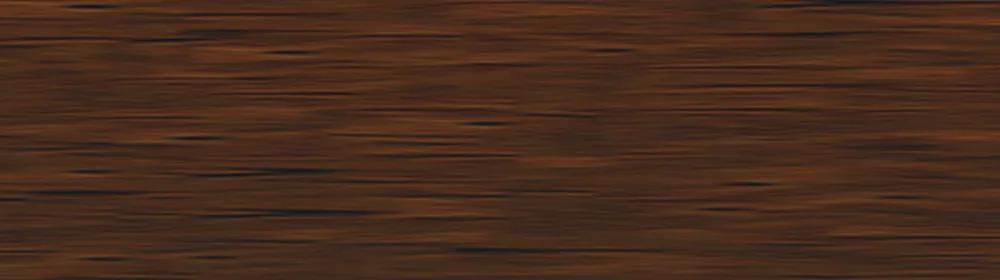
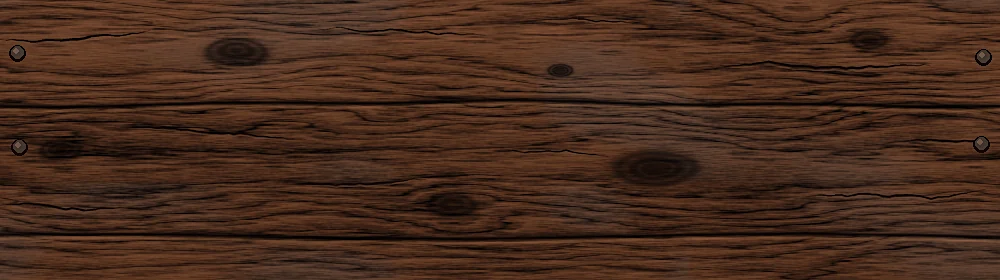
Tierra biblica: barra inferior de madera rustica (tablas, vetas, nudos, grietas y clavos)

diff --git a/scripts/generar-texturas-tierra.py b/scripts/generar-texturas-tierra.py
@@ -1,6 +1,7 @@
 # Prepara las texturas de Tierra biblica a partir del zip Texturas_Tierra_Santa_Biblia_2026 (mismo metodo que Verde olivo).
 # Los mosaicos del zip son REFLEJADOS y traen manchas (puntos blancos en la madera, manchas negras en el papel): se arman
 # texturas nuevas con parches al azar de zonas limpias (semillas fijas), sin espejo; el papel ademas cierra sin costura.
+# La barra es madera rustica dibujada por el script (tablas, nudos, grietas, clavos) con el grano fino del recurso 04.
 # Encabezado: 'fondo_reconstruido' trae bloques emborronados donde estaban el titulo y los botones, y la curva dorada abajo.
 # Se arma uno nuevo: arbol (izquierda) + valle, sol y casa (derecha) para que ambos quepan en el encabezado del telefono,
 # se corta la curva dorada y se repinta la parte baja: matorrales a la izquierda (parches de la misma imagen) y empedrado dibujado a la derecha.
@@ -116,16 +117,75 @@ def empedrado(tam,grano,semilla):
             o[x,y]=tuple(col)
     return out.filter(ImageFilter.GaussianBlur(0.6))
 
+def ruido(tam,celda_x,celda_y,rnd):
+    """Ruido suave en 0..1 (rejilla al azar ampliada); celdas alargadas en x = vetas."""
+    w,h=tam; g=Image.new('L',(w//celda_x+4,h//celda_y+4)); g.putdata([rnd.randint(0,255) for _ in range(g.width*g.height)])
+    g=g.resize((g.width*celda_x,g.height*celda_y),Image.BICUBIC).crop((celda_x,celda_y,celda_x+w,celda_y+h))
+    return [v/255 for v in g.tobytes()]
+
 def barra(base):
-    L=(1000,280)
-    m=abrir(base,'04_madera_barra')
-    # vetas largas: franjas claras de arriba y abajo (sin la banda oscura ni los puntos blancos del centro), estiradas a lo ancho
-    donantes=[x.resize((x.width*3,x.height),Image.LANCZOS) for x in (m.crop((6,20,230,120)),m.crop((282,390,506,490)))]
-    im=parches(donantes,L,(440,56),23)
-    im=im.filter(ImageFilter.UnsharpMask(radius=2,percent=90,threshold=0))
-    im=contraste_de_media(im,1.7)
-    r=Image.new('L',(1,L[1])); r.putdata([round(255*0.22*(y/(L[1]-1))**1.3) for y in range(L[1])])
-    im=Image.composite(Image.new('RGB',L,PROFUNDO),im,r.resize(L))      # degradado leve (22 % abajo)
+    """Madera rustica: dos tablas gastadas, vetas onduladas que rodean los nudos, grietas, junta entre tablas y clavos viejos;
+    el grano fino sale del recurso 04 (zona sin los puntos blancos)."""
+    L=(1000,280); W,H=L; rnd=random.Random(23)
+    junta=lambda x: 103+2.2*math.sin(x/139.0+1.3)+1.3*math.sin(x/47.0)        # entre el icono y la etiqueta
+    junta2=lambda x: 236+2.5*math.sin(x/113.0+4.0)
+    onda=ruido(L,170,46,rnd); onda2=ruido(L,52,17,rnd); fibra=ruido(L,26,2,rnd); fibra2=ruido(L,9,1,rnd); manchas=ruido(L,120,60,rnd); aspero=ruido(L,3,2,rnd)
+    nudos=[(236,52,21,9),(655,168,27,11),(868,40,13,6),(452,205,17,8),(60,150,14,7),(560,70,8,4)]     # x, y, radio x, radio y
+    m=abrir(base,'04_madera_barra').crop((6,6,226,150)).resize((660,144),Image.LANCZOS)
+    grano=parches([m],L,(240,70),9); g=grano.load(); gb=grano.filter(ImageFilter.GaussianBlur(4)).load()
+    im=Image.new('RGB',L); o=im.load()
+    for y in range(H):
+        for x in range(W):
+            k=y*W+x
+            j1,j2=junta(x),junta2(x); tabla=0 if y<j1 else (1 if y<j2 else 2)
+            t=y+(onda[k]-0.5)*34+(onda2[k]-0.5)*9+tabla*57
+            oscuro_nudo=0.0
+            for nx,ny,rx,ry in nudos:
+                dx=(x-nx)/rx; dy=(y-ny)/ry; d2=dx*dx+dy*dy
+                if d2<40:
+                    t-=(y-ny)*1.35*math.exp(-d2/7.0)                           # las vetas se apartan del nudo
+                    r=math.sqrt(d2+(onda2[k]-0.5)*0.9 if d2+(onda2[k]-0.5)*0.9>0 else 0)
+                    if r<2.1:
+                        anillo=0.5+0.5*math.cos(r*9.0)
+                        oscuro_nudo=max(oscuro_nudo,(0.92-0.22*r+0.28*anillo)*(1-rampa(r,1.2,2.1)))
+            veta=math.sin(t*0.36+3.2*math.sin(t*0.071)+fibra[k]*2.2)
+            linea=max(0.0,veta)**5                                             # vetas oscuras finas
+            claro=max(0.0,-veta)**3
+            v=(1.0+0.30*claro-0.46*linea+0.42*(fibra[k]-0.5)+0.30*(fibra2[k]-0.5)+0.38*(manchas[k]-0.5)+0.16*(aspero[k]-0.5)
+               +(0.07,-0.09,0.0)[tabla])
+            v*=1-0.68*min(1.0,oscuro_nudo)
+            col=[(86,50,30)[c]*v+0.5*(g[x,y][c]-gb[x,y][c]) for c in range(3)]
+            gris=0.30*rampa(manchas[(k+W*97+311)%(W*H)],0.55,0.85)             # zonas desgastadas, algo grises
+            lum_=0.35*col[0]+0.5*col[1]+0.15*col[2]; col=[c+(lum_*1.12-c)*gris for c in col]
+            for j in (j1,j2):                                                  # junta: hueco oscuro con canto iluminado debajo
+                d=y-j
+                if -7<d<8:
+                    hueco=math.exp(-(d/2.1)**2); canto=math.exp(-((d-4.2)/1.5)**2); bisel=math.exp(-((d+3.8)/2.0)**2)
+                    col=[c*(1-0.82*hueco)*(1-0.22*bisel)+(46,30,16)[n]*canto for n,c in enumerate(col)]
+            o[x,y]=tuple(max(0,min(255,round(c))) for c in col)
+    # grietas a lo largo de la veta (afiladas en las puntas, con filo claro debajo)
+    S=3; hondo=Image.new('L',(W*S,H*S),0); filo=Image.new('L',(W*S,H*S),0); dh=ImageDraw.Draw(hondo); df=ImageDraw.Draw(filo)
+    grietas=[(0,40,150,2.6),(318,28,170,1.8),(720,66,210,2.8),(905,142,95,2.4),(120,128,190,2.0),(500,150,110,1.6),(805,196,180,2.2),(300,185,130,1.8),(560,20,80,1.4),(0,205,120,2.4)]
+    for x0,y0,largo,gr in grietas:
+        y=y0; pts=[]
+        for n in range(0,largo+1,6):
+            y+=rnd.uniform(-1.5,1.5); pts.append((x0+n,y))
+        for n in range(len(pts)-1):
+            f=math.sin(math.pi*(n+0.5)/(len(pts)-1))**0.6; a=pts[n]; c=pts[n+1]
+            dh.line([(a[0]*S,a[1]*S),(c[0]*S,c[1]*S)],fill=255,width=max(1,round(gr*f*S)))
+            df.line([(a[0]*S,(a[1]+gr*f*0.9+0.6)*S),(c[0]*S,(c[1]+gr*f*0.9+0.6)*S)],fill=round(150*f),width=S)
+    im=Image.composite(Image.new('RGB',L,(124,86,54)),im,filo.resize(L,Image.LANCZOS))
+    im=Image.composite(Image.new('RGB',L,(17,8,3)),im,hondo.resize(L,Image.LANCZOS))
+    # clavos de hierro viejos en los extremos de las tablas
+    d=ImageDraw.Draw(im)
+    for cx,cy in ((17,52),(983,56),(19,146),(981,143)):
+        d.ellipse((cx-8,cy-7,cx+8,cy+9),fill=(26,13,6)); d.ellipse((cx-6,cy-6,cx+6,cy+6),fill=(72,58,50)); d.ellipse((cx-4,cy-4,cx+1,cy+1),fill=(128,108,90))
+    im=im.filter(ImageFilter.UnsharpMask(radius=1.5,percent=60,threshold=1))
+    r=Image.new('L',(1,H)); r.putdata([round(255*0.18*(y/(H-1))**1.3) for y in range(H)])
+    im=Image.composite(Image.new('RGB',L,PROFUNDO),im,r.resize(L))      # degradado leve (18 % abajo)
+    # recorta los brillos para que el dorado de la etiqueta activa siga pasando 4,5:1
+    med=ImageStat.Stat(im).mean
+    im=Image.merge('RGB',[c.point([v if v<=med[n]+14 else round(med[n]+14+(v-med[n]-14)*0.55) for v in range(256)]) for n,c in enumerate(im.split())])
     return a_media(im,PRINCIPAL)
 
 def papel(base):
@@ -143,7 +203,7 @@ def boton(base):
 def android(base):
     return a_media(contraste_de_media(parches([piedra(base)],(1000,160),(80,80),5),0.9),ANDROID)
 
-TRABAJOS=[(encabezado,'texturas/encabezado_tierra.webp',86),(barra,'texturas/barra_tierra.webp',82),
+TRABAJOS=[(encabezado,'texturas/encabezado_tierra.webp',86),(barra,'texturas/barra_tierra.webp',86),
           (papel,'texturas/papel_tierra.webp',80),(boton,'texturas/piedra_tierra_oscura.webp',82),
           (android,'texturas/piedra_tierra_android.webp',78)]
 
